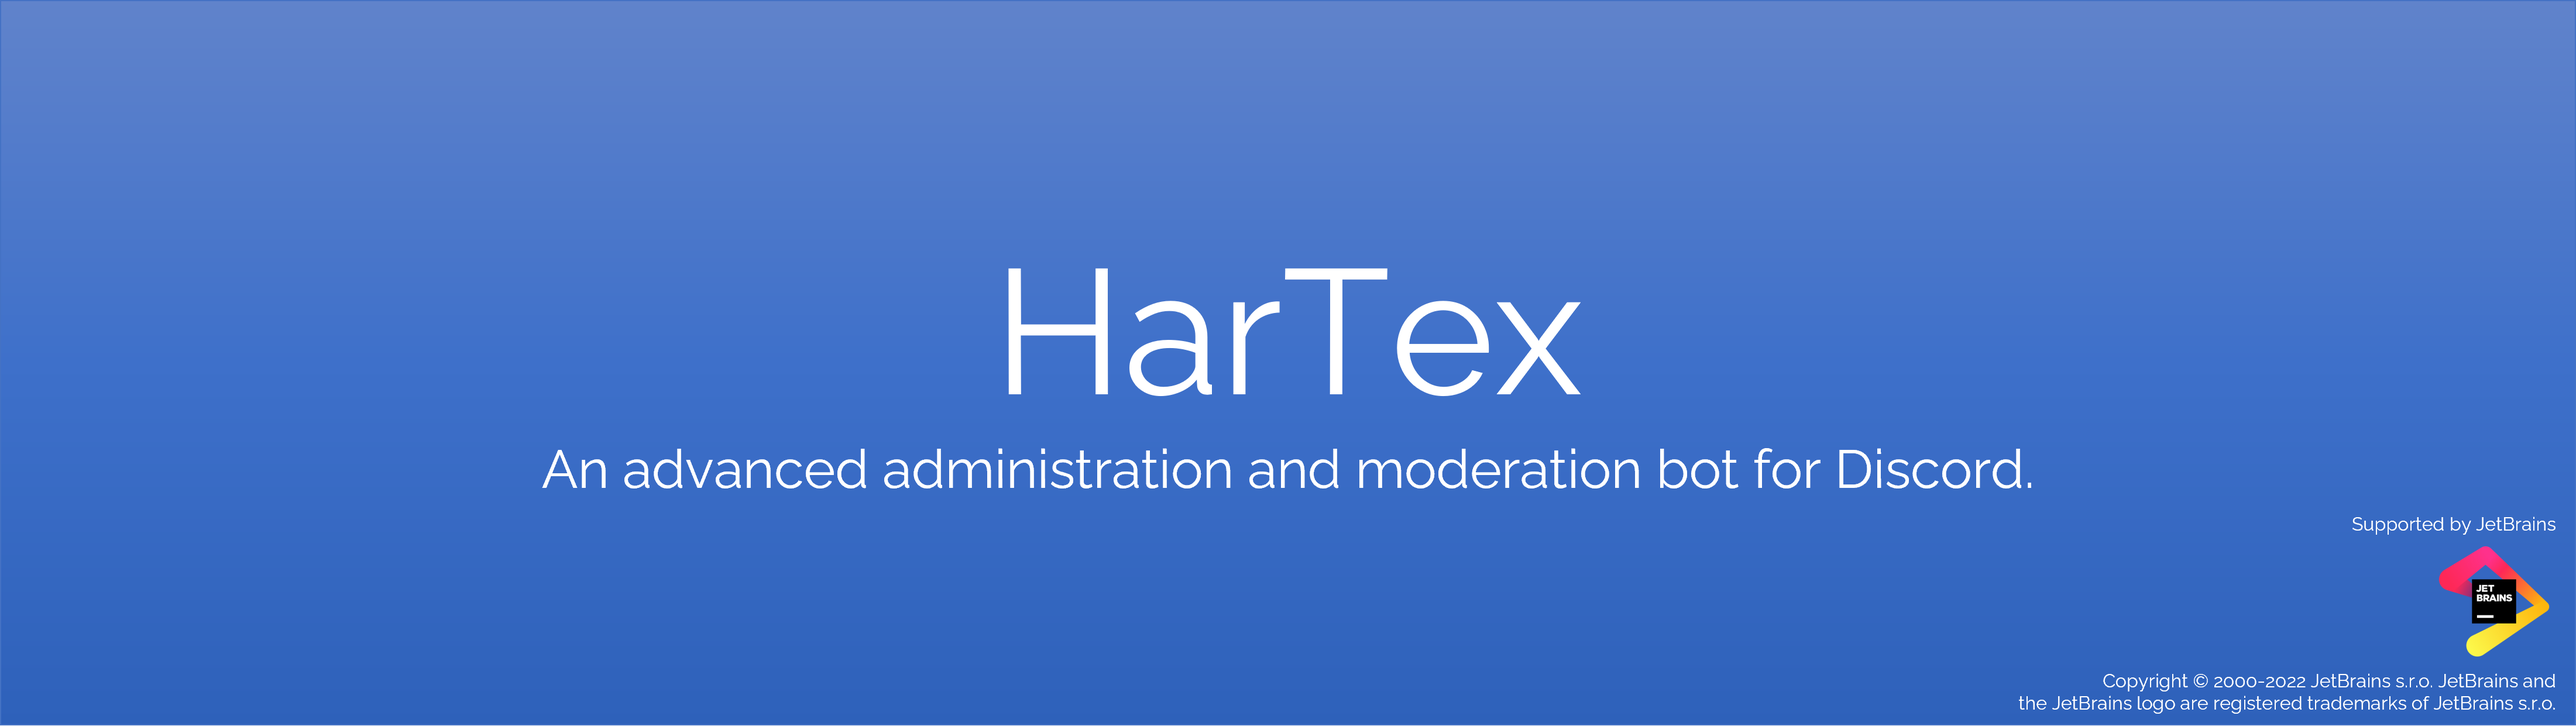
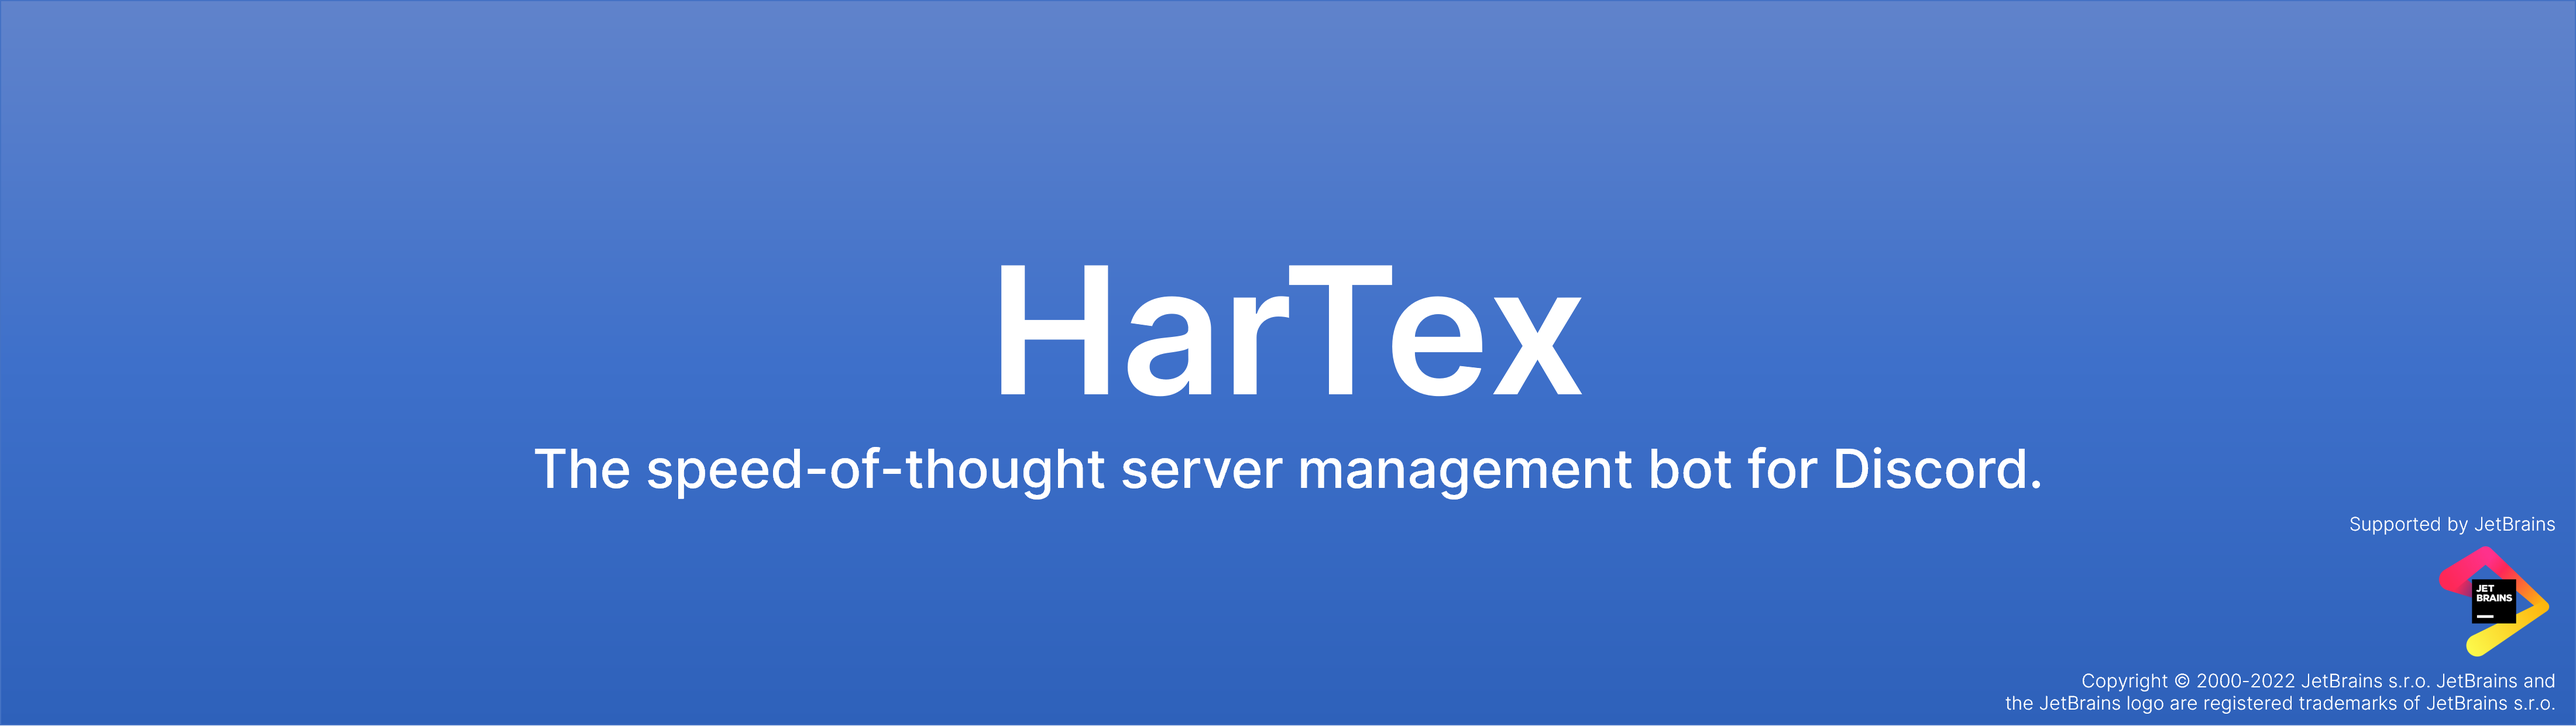
change font

diff --git a/web-frontend/App.vue b/web-frontend/App.vue
@@ -38,7 +38,7 @@ body {
   @apply mx-12 sm:mx-24 lg:mx-36 xl:mx-80;
   @apply bg-primary text-secondary;
 
-  font-family: "Lato", sans-serif;
+  font-family: "Inter", sans-serif;
 }
 
 br {
